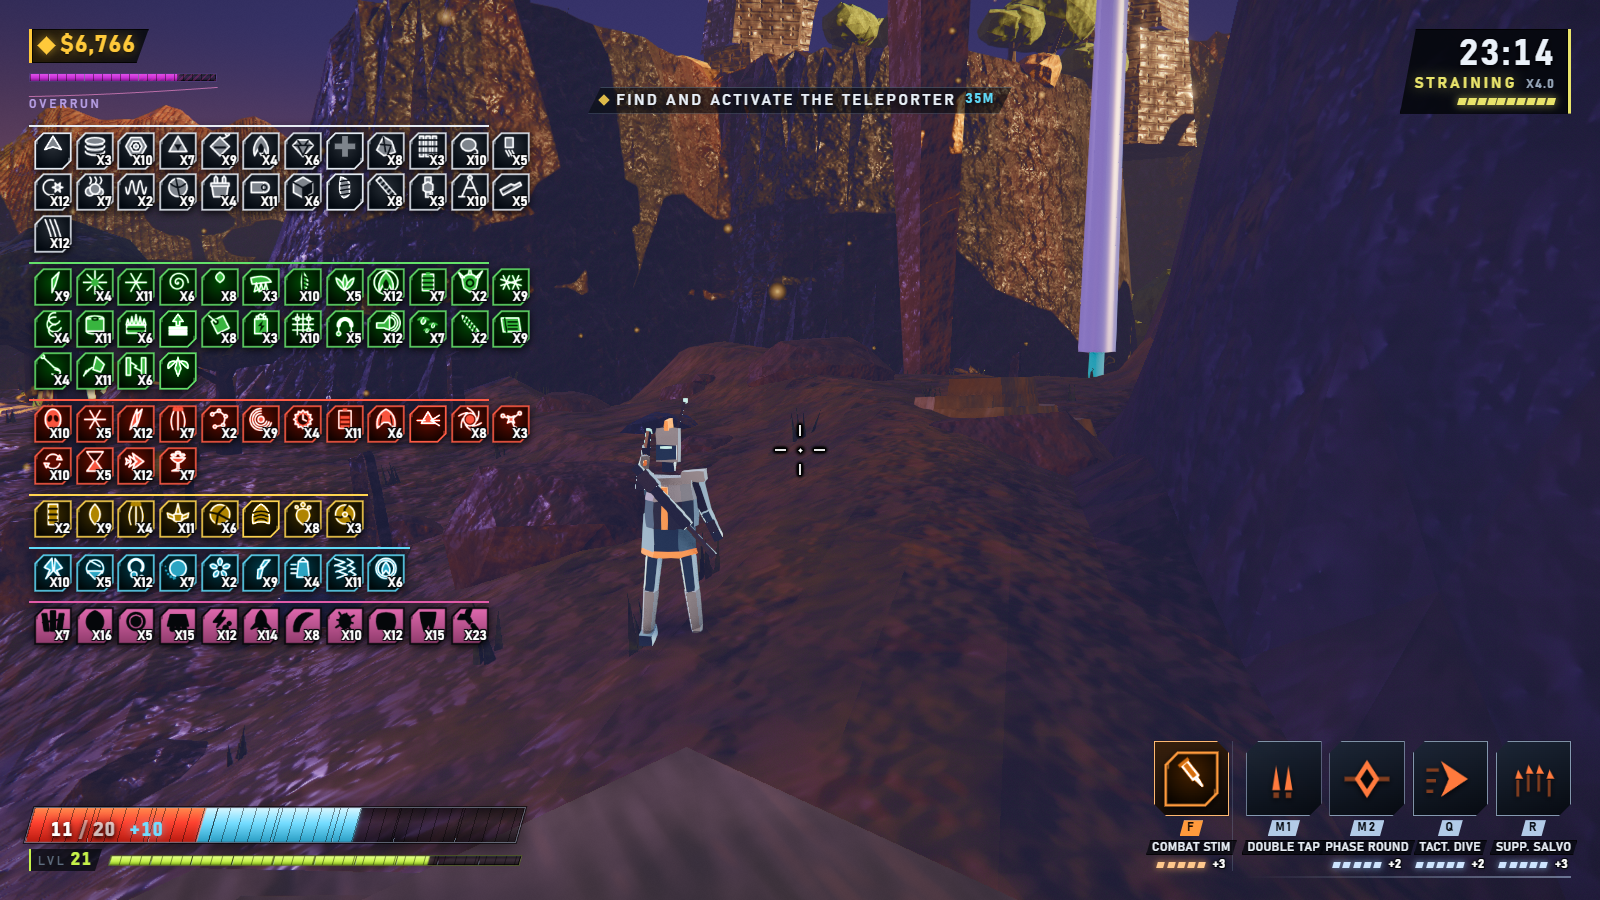
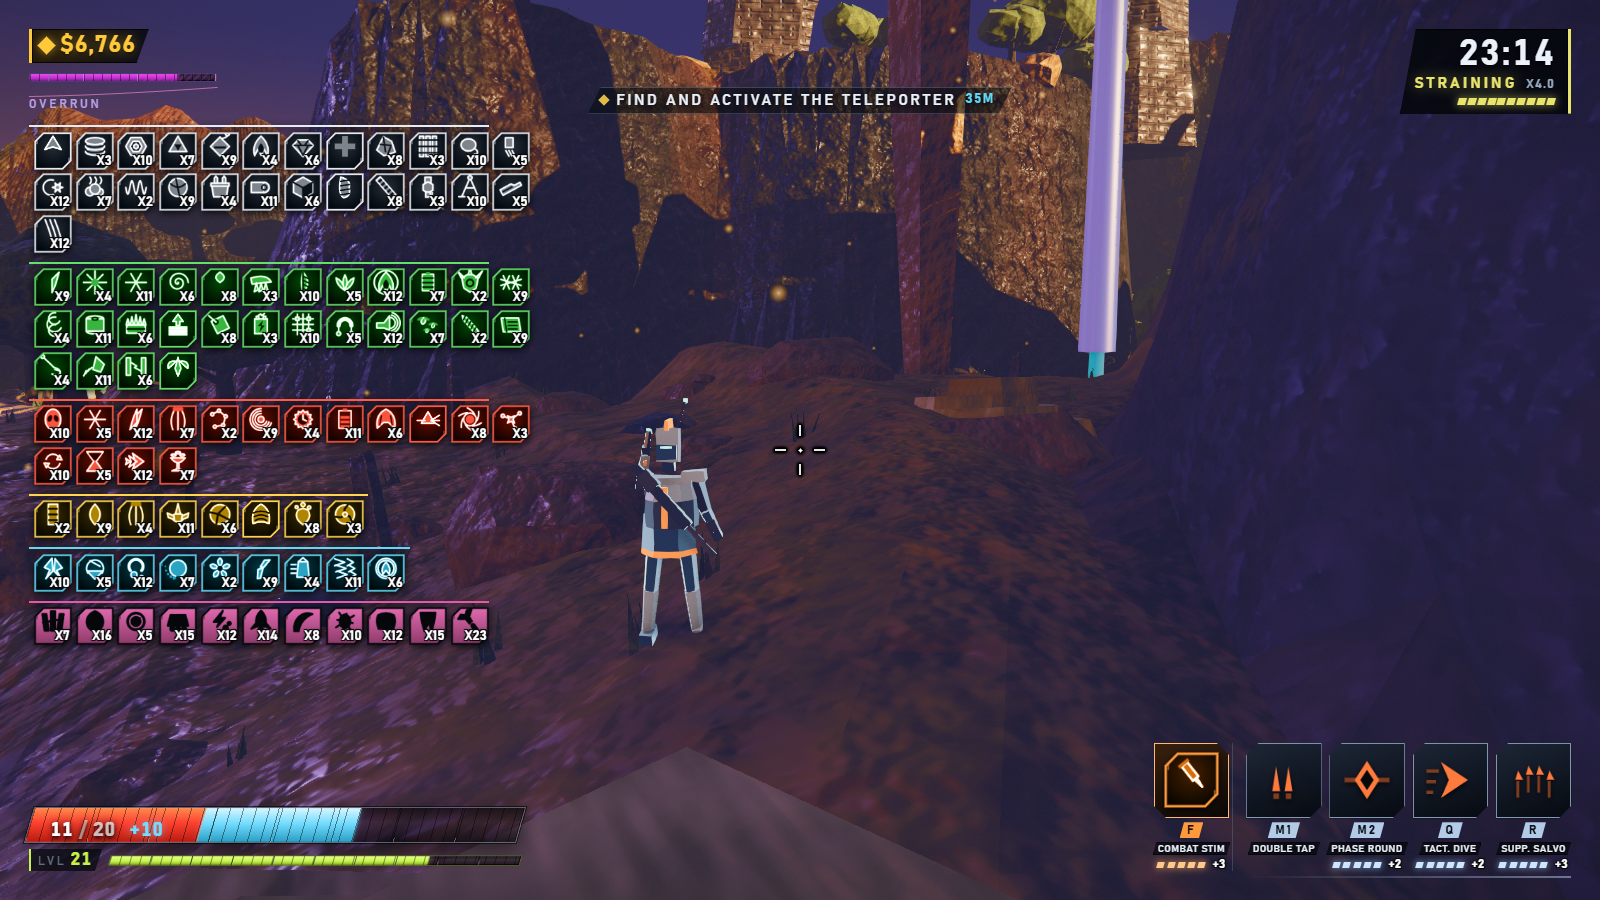
The labels stop touching and the last gradation finally draws
The final review measured two things the branch published as fine: ability
names with glyphs overlapping on two survivors, and a Consumed mark laid
outside the clip box it engraves. .slot-name takes the one documented
exception to the type floor at 0.70em, the marks are pulled back inside the
track, and the gauge probe stops trusting style.left for a rendered-pixel
claim. The type lint learns to see through var() so a re-priced token cannot
widen every eyebrow behind its back.

diff --git a/src/ui/hud.css b/src/ui/hud.css
@@ -494,11 +494,22 @@ body.menu-open { cursor: default; }
 }
 /* Engraved gradations. `z-index: 3` puts them above the strata, because a
    scale is cut into the casing and the strata are behind the glass. */
+/* The marks are laid out from their left edge at `left: <pct>%`, and the track
+   is a `.core` — `overflow: hidden`. Band 4's threshold is the top of the scale,
+   so at `left: 100%` all 1px of the mark sat outside the clip box and the
+   Consumed gradation drew zero pixels (three of four hairlines rendered; the
+   band-4 rule below was dead CSS). Pulling every mark back by its own width
+   puts the engraving *inside* the scale it is measuring, which is where a mark
+   at 100% has to live anyway. Same reason `top`/`bottom` sit at 0: the -1px
+   bleed they used to carry was clipped away on all four marks, so it only ever
+   lied about the height. `tools/gaugeshot.mjs` now measures the rendered rects
+   against the clip box rather than reading `style.left`. */
 .corruption-grad {
   position: absolute;
-  top: -1px; bottom: -1px;
+  top: 0; bottom: 0;
   z-index: 3;
   width: 1px;
+  margin-left: -1px;
   background: var(--grad);
 }
 .corruption-grad[data-band="4"] { background: rgba(255, 143, 214, 0.75); }
@@ -1149,8 +1160,22 @@ body.menu-open { cursor: default; }
    `PHASE ROU…` in every frame of the game — not a transient state. The row has
    horizontal slack between tiles; let the chip use it, and drop a fifth of a
    step of size so most names never need to. */
+/* The one documented exception to the 0.80em floor, and the only place in the
+   HUD that gets one. `.slot` is a fixed 5.2em tile with 0.55em of gap and this
+   chip is `nowrap` with 0.5em of padding a side, so it is the single label on
+   screen with no room to absorb the ladder. At `--fs-micro` (0.82em) the
+   re-priced `--u` pushed it to 11.87px and the labels collided: Rook's
+   `Scat. Charges`/`Harm. Ward` and Cinder's `Backdraft`/`Conflagration` had
+   glyphs touching at -0.33px and -0.42px, and four of five survivors had merged
+   plates. (Cinder's is structural: `shortName()` returns early on a single-word
+   name, so a 13-character ability can never be abbreviated.) Measured across
+   all five loadouts at 1600x900 / 1366x768 / 1280x720: 0.72em still merges one
+   pair of plates (-0.61px), 0.70em clears every pair — worst plate gap +1.45px,
+   worst glyph gap +10.20px — and is still 13% larger than the 0.62em this label
+   wore before the ladder. `tests/ui-type-scale.test.mjs` names the exception and
+   holds 0.70em as its own floor, so it cannot quietly shrink further. */
 .slot-name {
-  font-size: var(--fs-micro);
+  font-size: 0.70em;
   letter-spacing: 0.04em;
   color: var(--ink);
   white-space: nowrap;

diff --git a/reviews/round8/UI-BASELINE.md b/reviews/round8/UI-BASELINE.md
@@ -44,6 +44,24 @@ Both manifests report `subjectsOk: true` and `errorCount: 0`, so every frame in
 both sets passed its per-scenario `mustContain` DOM and pixel assertions. No
 scenario was excluded for scene noise.
 
+### The two recaptured frames
+
+The final whole-branch review found two defects in `src/ui/hud.css` (the ability
+label `.slot-name` collided at `--fs-micro`; the band-4 gauge gradation drew
+zero pixels). Both are fixed, so `06-loaded-hud.png` and `10-inventory.png` —
+the only two frames in this set that photograph the live HUD — were **recaptured
+at the fix commit**, under the same after-command above, same renderer, same
+seed, same clock. The other six frames are untouched from `d21c6a6`.
+
+That the other six are unaffected is measured, not assumed: the fix commit was
+captured in full into a scratch directory and diffed against this set. Only the
+two HUD frames moved (`pctOver8` 3.532% and 2.024%); the remaining six came in
+at capture noise — `maxDiff <= 8` and `pctOver8` exactly 0 on every one. The run
+reported `subjectsOk: true`, `errors: 0` and the same three `toleratedAbsences`.
+`manifest.json` is the one from the `d21c6a6` run and still describes six of the
+eight frames; the recapture's own manifest differed from it only in timings and
+output paths.
+
 ## The measured difference
 
 `reviews/round8/ui-shot-diff.json`, produced by the `shotdiff` command above.
@@ -51,14 +69,14 @@ scenario was excluded for scene noise.
 | scenario | meanDiff | maxDiff | pctOver8 |
 |---|---:|---:|---:|
 | 01-title | 8.797 | 251 | 9.45 |
-| 06-loaded-hud | 26.202 | 255 | 38.271 |
-| 10-inventory | 25.119 | 255 | 34.841 |
+| 06-loaded-hud | 25.477 | 255 | 36.254 |
+| 10-inventory | 24.919 | 255 | 34.459 |
 | 14-survivor-select | 14.573 | 251 | 21.735 |
 | 15-logbook | 8.836 | 253 | 17.969 |
 | 16-run-summary | 17.608 | 255 | 14.643 |
 | 17-artifacts | 7.042 | 247 | 13.613 |
 | 18-difficulty | 3.547 | 247 | 6.689 |
-| **aggregate** | **13.966** | **255** | **19.651** |
+| **aggregate** | **13.85** | **255** | **19.351** |
 
 Read it the right way round: this is a deliberate whole-surface reskin, so a
 *small* diff is the failure mode — it would mean the treatment never reached
@@ -91,12 +109,20 @@ What the record publishes, all read off the live DOM at the instant of capture:
 |---|---|
 | world corruption | 150 |
 | band | 3 — `Overrun`, `data-band="3"`, fill 79% |
-| gradations rendered (`.corruption-grad` `style.left`) | 10.53% / 28.95% / 57.89% / 100% |
+| gradations rendered (`.corruption-grad`, rect ∩ track clip box) | 10.53% / 28.95% / 57.89% / 100%, each drawing 1 x 6.97 px |
 | samples in `HUD._trace` | 48 (the ring's cap) |
 | last `d` the pen wrote | `M 0.00 9.95 L 2.13 9.91 L 4.26 9.86 L 6.38 9.80 …` (48 points, 0.0046 → 0.7895) |
 
 The gradation percentages are the planet's real band thresholds — 20, 55, 110
 and 190 over the 190 top — so the engraving on the gauge is not decoration.
+
+That row says *rendered* and now means it. It used to be read off `style.left`,
+which reports where a mark was asked to go and cannot tell a drawn mark from a
+clipped one — and the band-4 mark, at `left: 100%` inside an `overflow: hidden`
+track, was drawing nothing at all while this table published it. The reading is
+now each mark's `getBoundingClientRect()` intersected with the track's clip box,
+in pixels, and `tools/gaugeshot.mjs` fails the run if any of the four comes back
+smaller than 1 x 1.
 
 Full frame at the library's own 1600x900, not a crop: the thesis is that the
 whole panel reads as one instrument, and a crop would beg that question. It also
